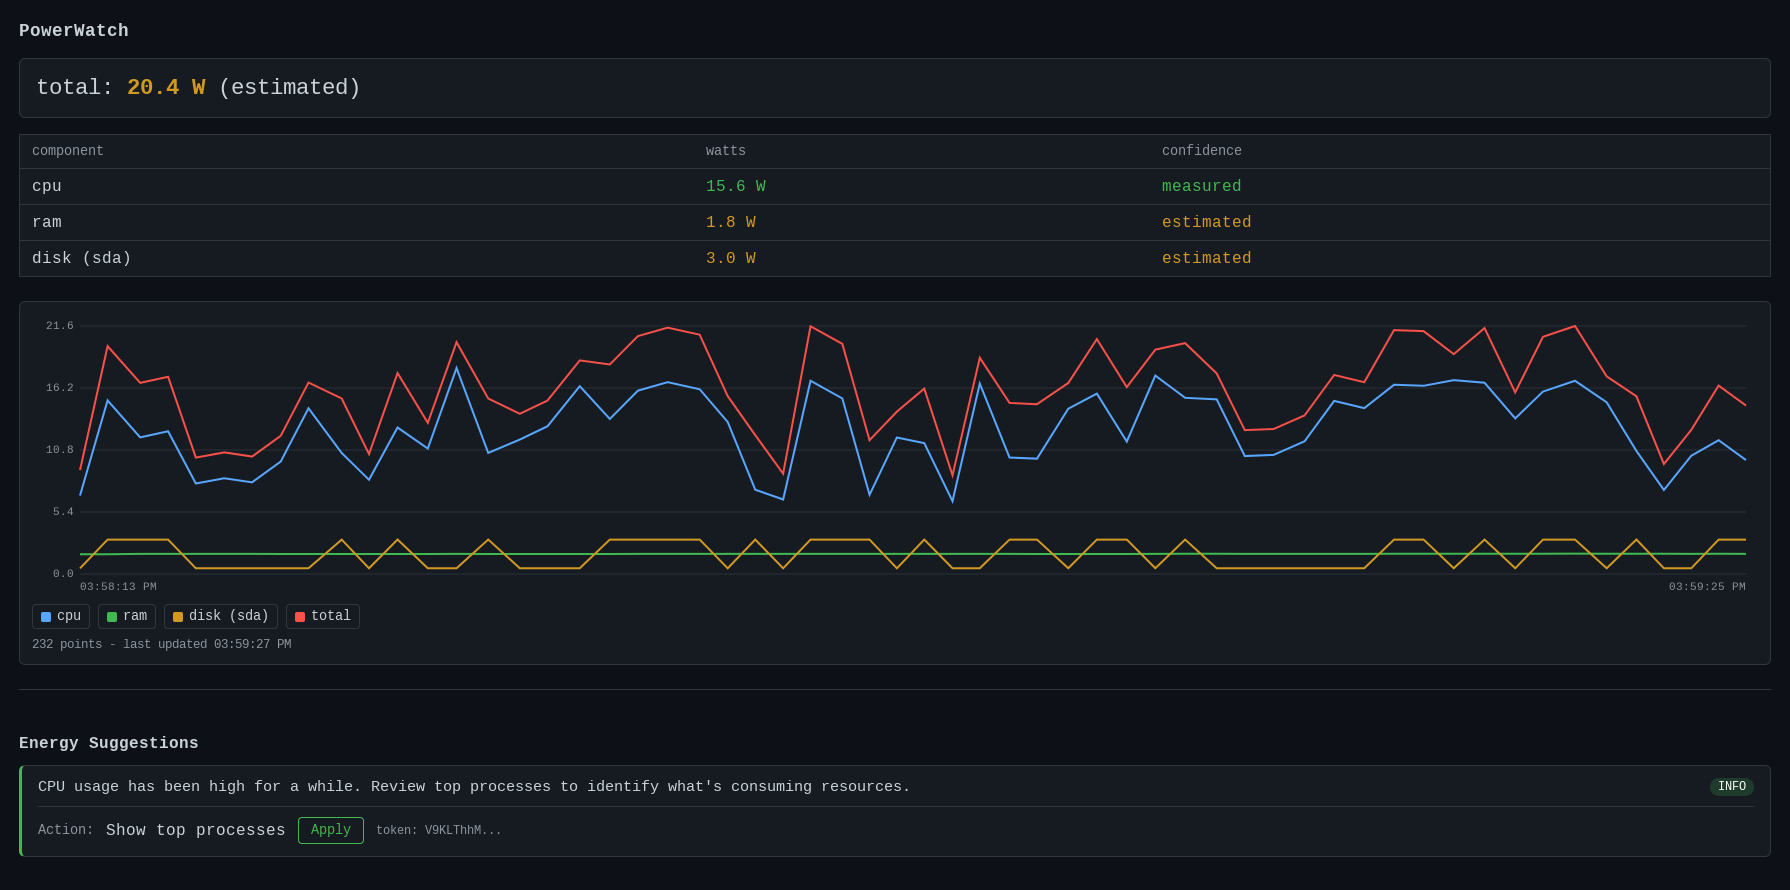
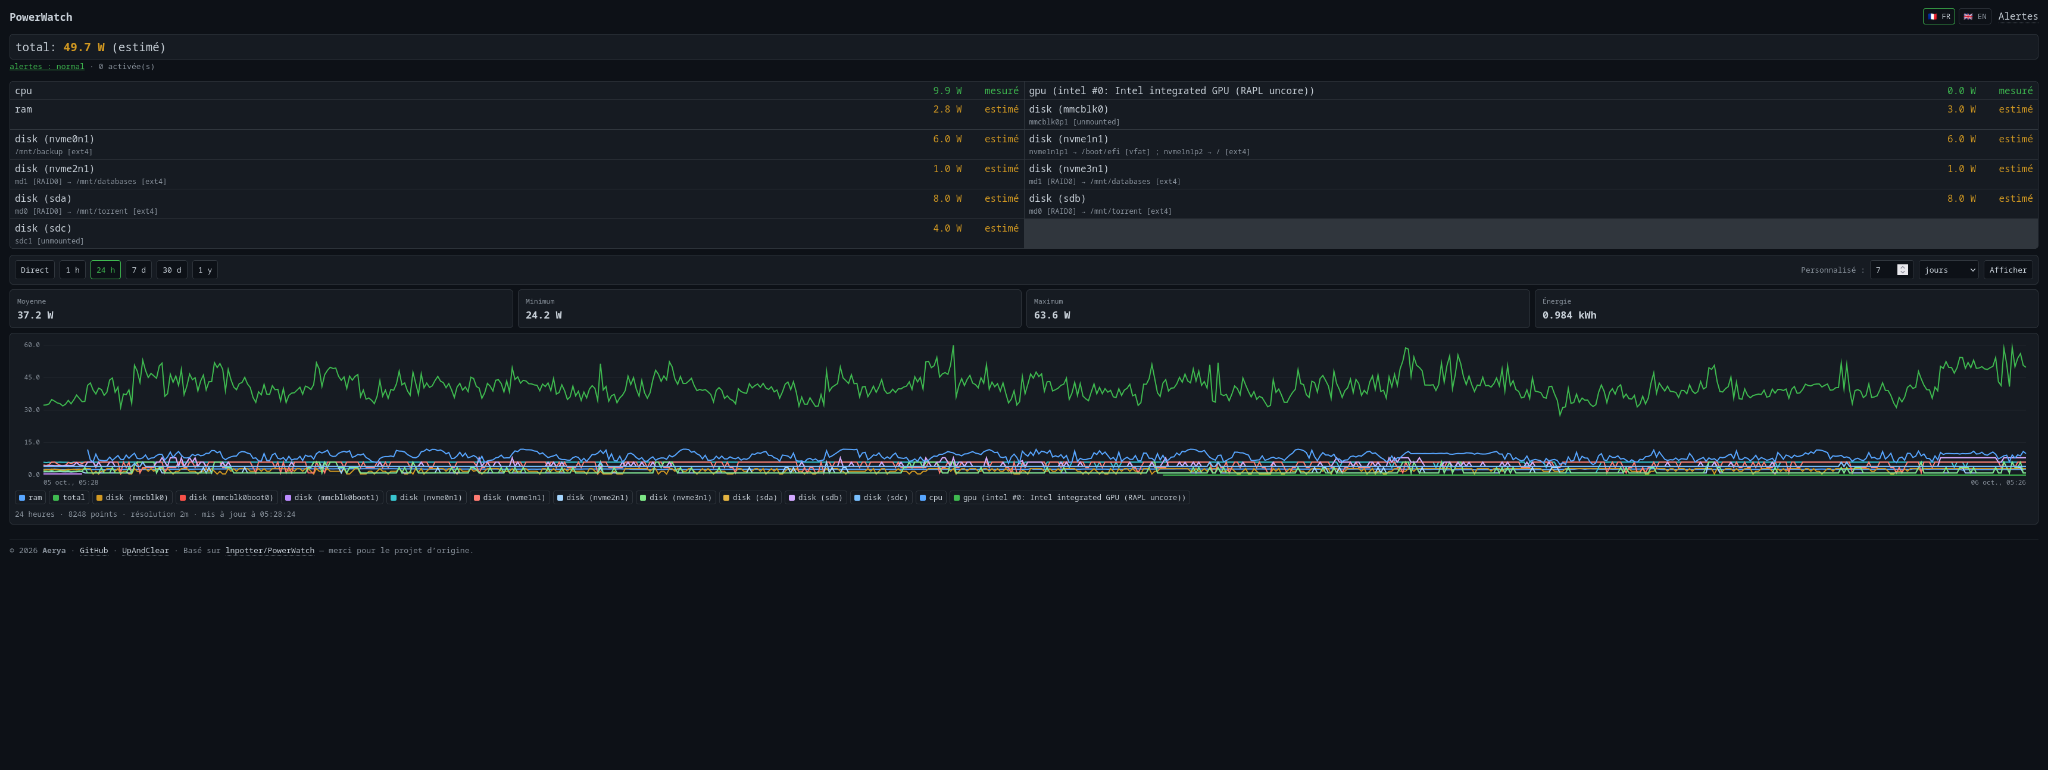
docs: refresh WebUI and Hub screenshots

diff --git a/README.md b/README.md
@@ -258,6 +258,10 @@ docker exec powerwatch sh -c \
 
 PowerWatch peut également fonctionner en mode **Hub**. Chaque machine conserve son instance PowerWatch locale et sa collecte matérielle ; le Hub interroge simplement leurs API HTTP et les regroupe dans une seule WebUI.
 
+<p align="center">
+  <img src="docs/images/Image_HUB.png" alt="PowerWatch Hub">
+</p>
+
 Le Hub fournit :
 
 - un **total global** de l'infrastructure ;

diff --git a/README.en.md b/README.en.md
@@ -257,6 +257,10 @@ docker exec powerwatch sh -c \
 
 PowerWatch can also run in **Hub** mode. Each machine keeps its local PowerWatch instance and hardware collection; the Hub simply queries their HTTP APIs and groups them into a single Web UI.
 
+<p align="center">
+  <img src="docs/images/Image_HUB.png" alt="PowerWatch Hub">
+</p>
+
 The Hub provides:
 
 - a **global infrastructure total**;
